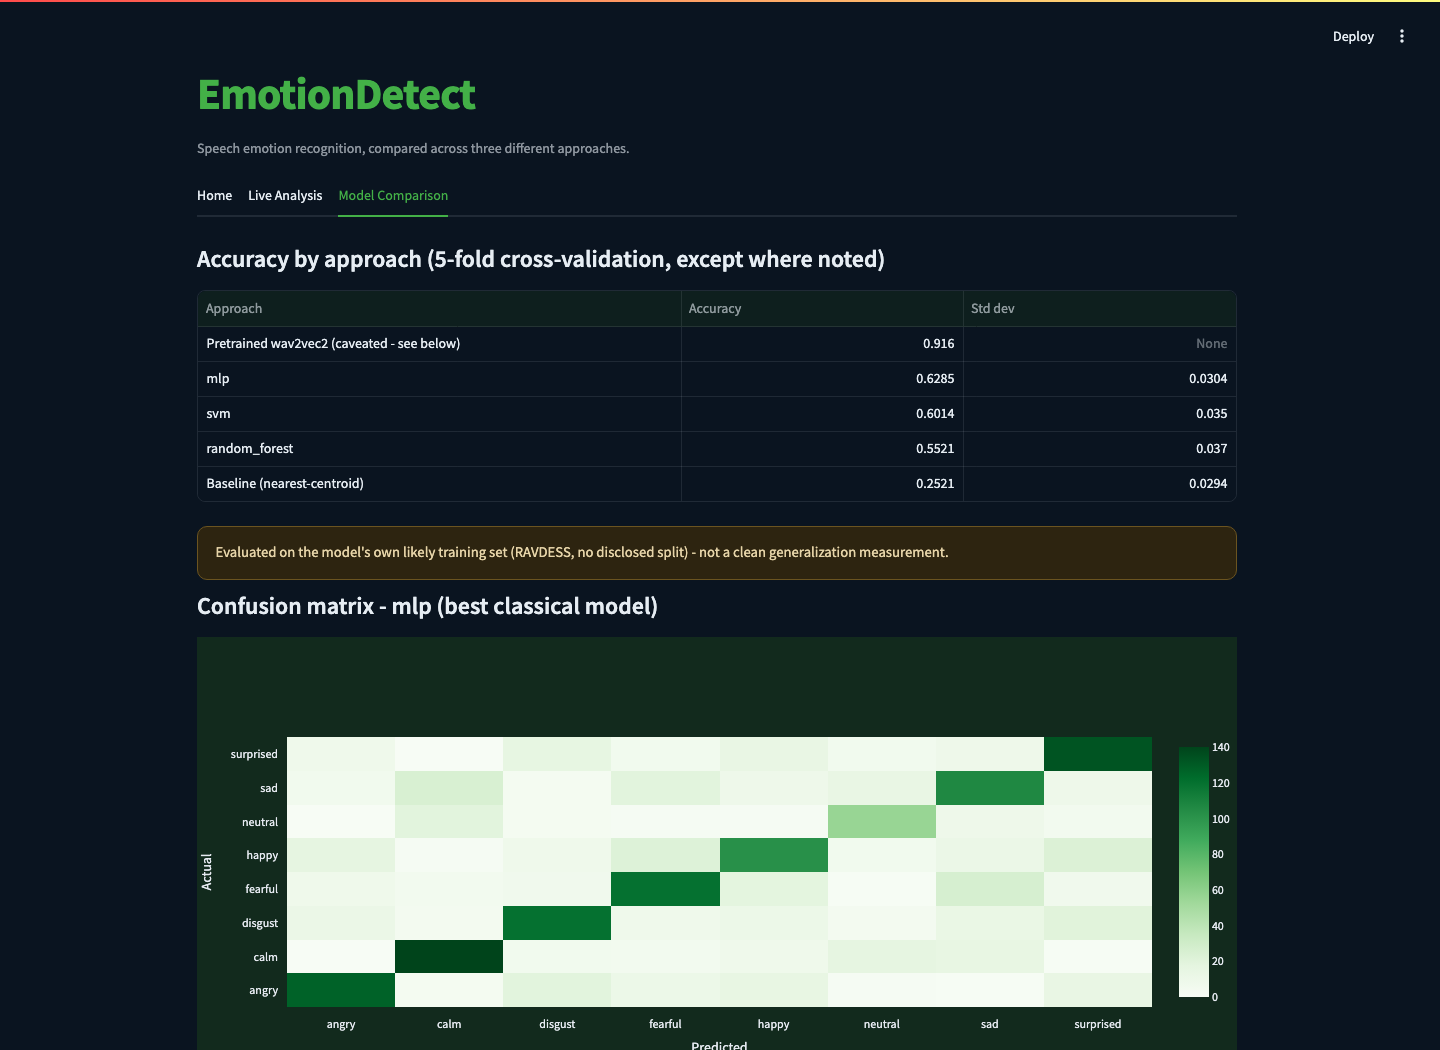
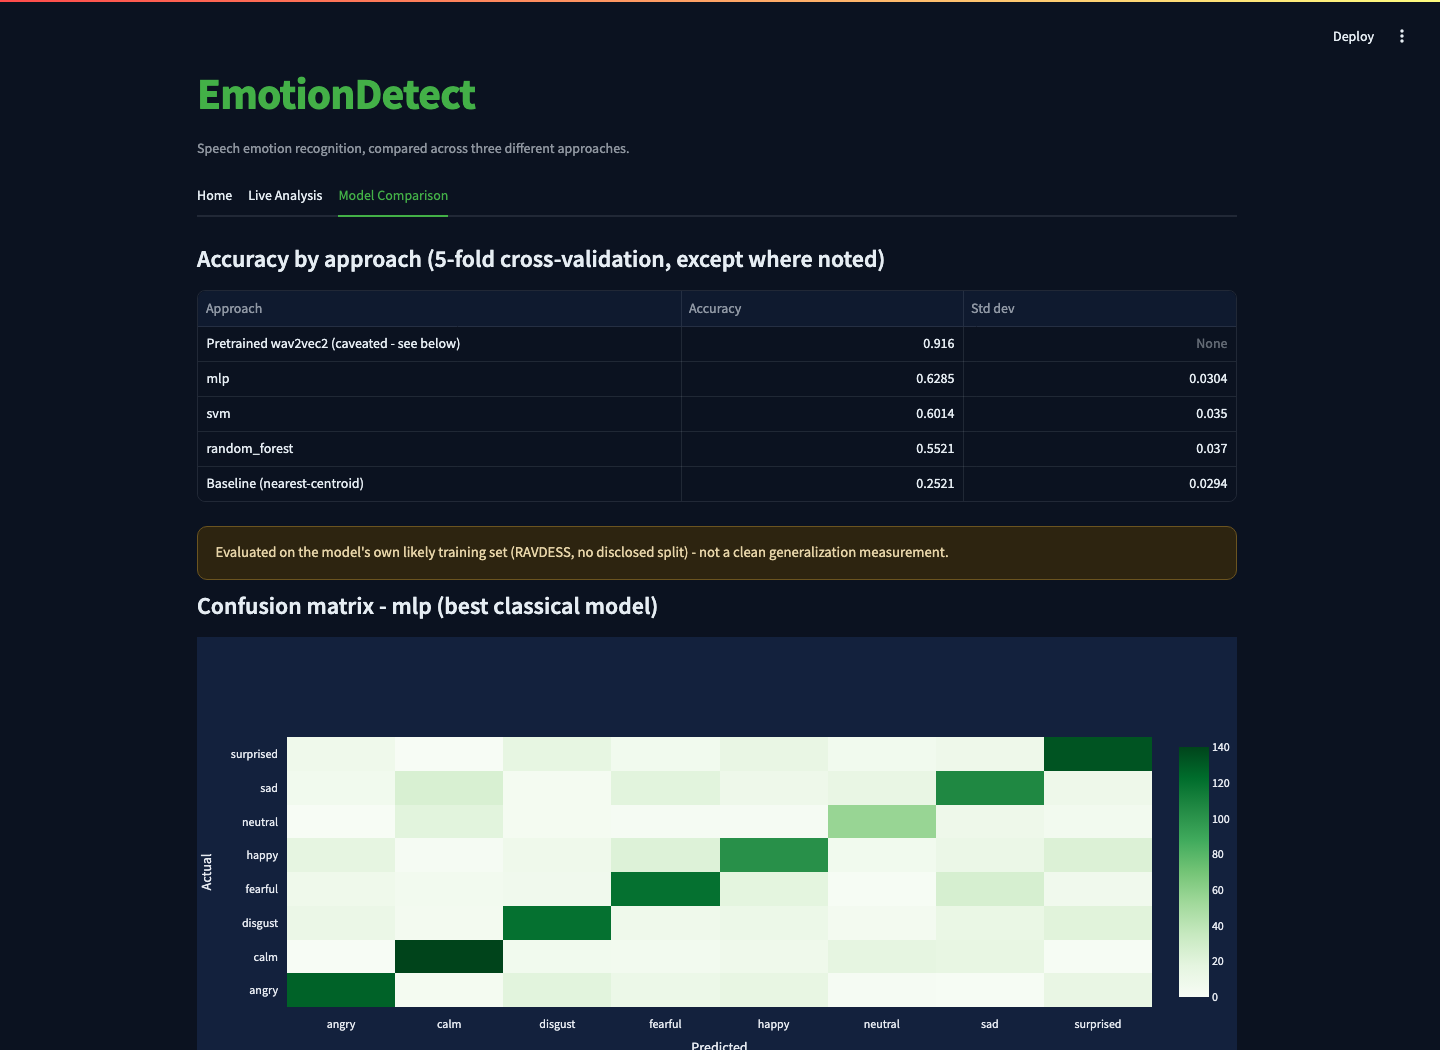
Fix muddy green-on-navy theme, use blue cards like Mario's palette
The green-tinted cards on a dark-blue background read as murky rather
than clean. Switched to the same blue-tinted card convention as the
Mario-themed Posture-Check app (both characters wear blue overalls,
after all) and kept green only for the title/stats/accent color -
much cleaner contrast. Updated README screenshots to match.

Changed region(s): [[0.125, 0.6095, 0.875, 1.0]]

diff --git a/app.py b/app.py
@@ -26,11 +26,11 @@ STYLE = """
 .block-container { padding-top: 2rem; max-width: 1200px; }
 h1 { font-weight: 700; letter-spacing: -0.02em; color: #43b047; }
 .ed-card {
-    background: #122a1d; border: 1px solid #1f6fd1; border-radius: 10px;
+    background: #13213d; border: 1px solid #2a5ca8; border-radius: 10px;
     padding: 1rem 1.2rem; margin-bottom: 0.8rem;
 }
 .ed-feature-card {
-    background: #122a1d; border: 1px solid #1f6fd1; border-radius: 12px;
+    background: #13213d; border: 1px solid #2a5ca8; border-radius: 12px;
     padding: 1.3rem 1.4rem; height: 100%;
 }
 .ed-feature-card h4 { margin-top: 0; color: #5b9bf0; }
@@ -166,7 +166,7 @@ def _bar_chart(title: str, probs: dict[str, float]):
     fig = go.Figure(go.Bar(x=labels, y=values, marker_color="#43b047"))
     fig.update_layout(
         title=title, yaxis_range=[0, 1], template="plotly_dark",
-        paper_bgcolor="#122a1d", plot_bgcolor="#122a1d", height=320,
+        paper_bgcolor="#13213d", plot_bgcolor="#13213d", height=320,
         margin=dict(l=20, r=20, t=40, b=20),
     )
     st.plotly_chart(fig, use_container_width=True)
@@ -273,7 +273,7 @@ def model_comparison_tab():
     labels = classifier_results["labels"]
     fig = go.Figure(go.Heatmap(z=cm, x=labels, y=labels, colorscale="Greens"))
     fig.update_layout(
-        template="plotly_dark", paper_bgcolor="#122a1d", plot_bgcolor="#122a1d",
+        template="plotly_dark", paper_bgcolor="#13213d", plot_bgcolor="#13213d",
         xaxis_title="Predicted", yaxis_title="Actual", height=450,
     )
     st.plotly_chart(fig, use_container_width=True)
